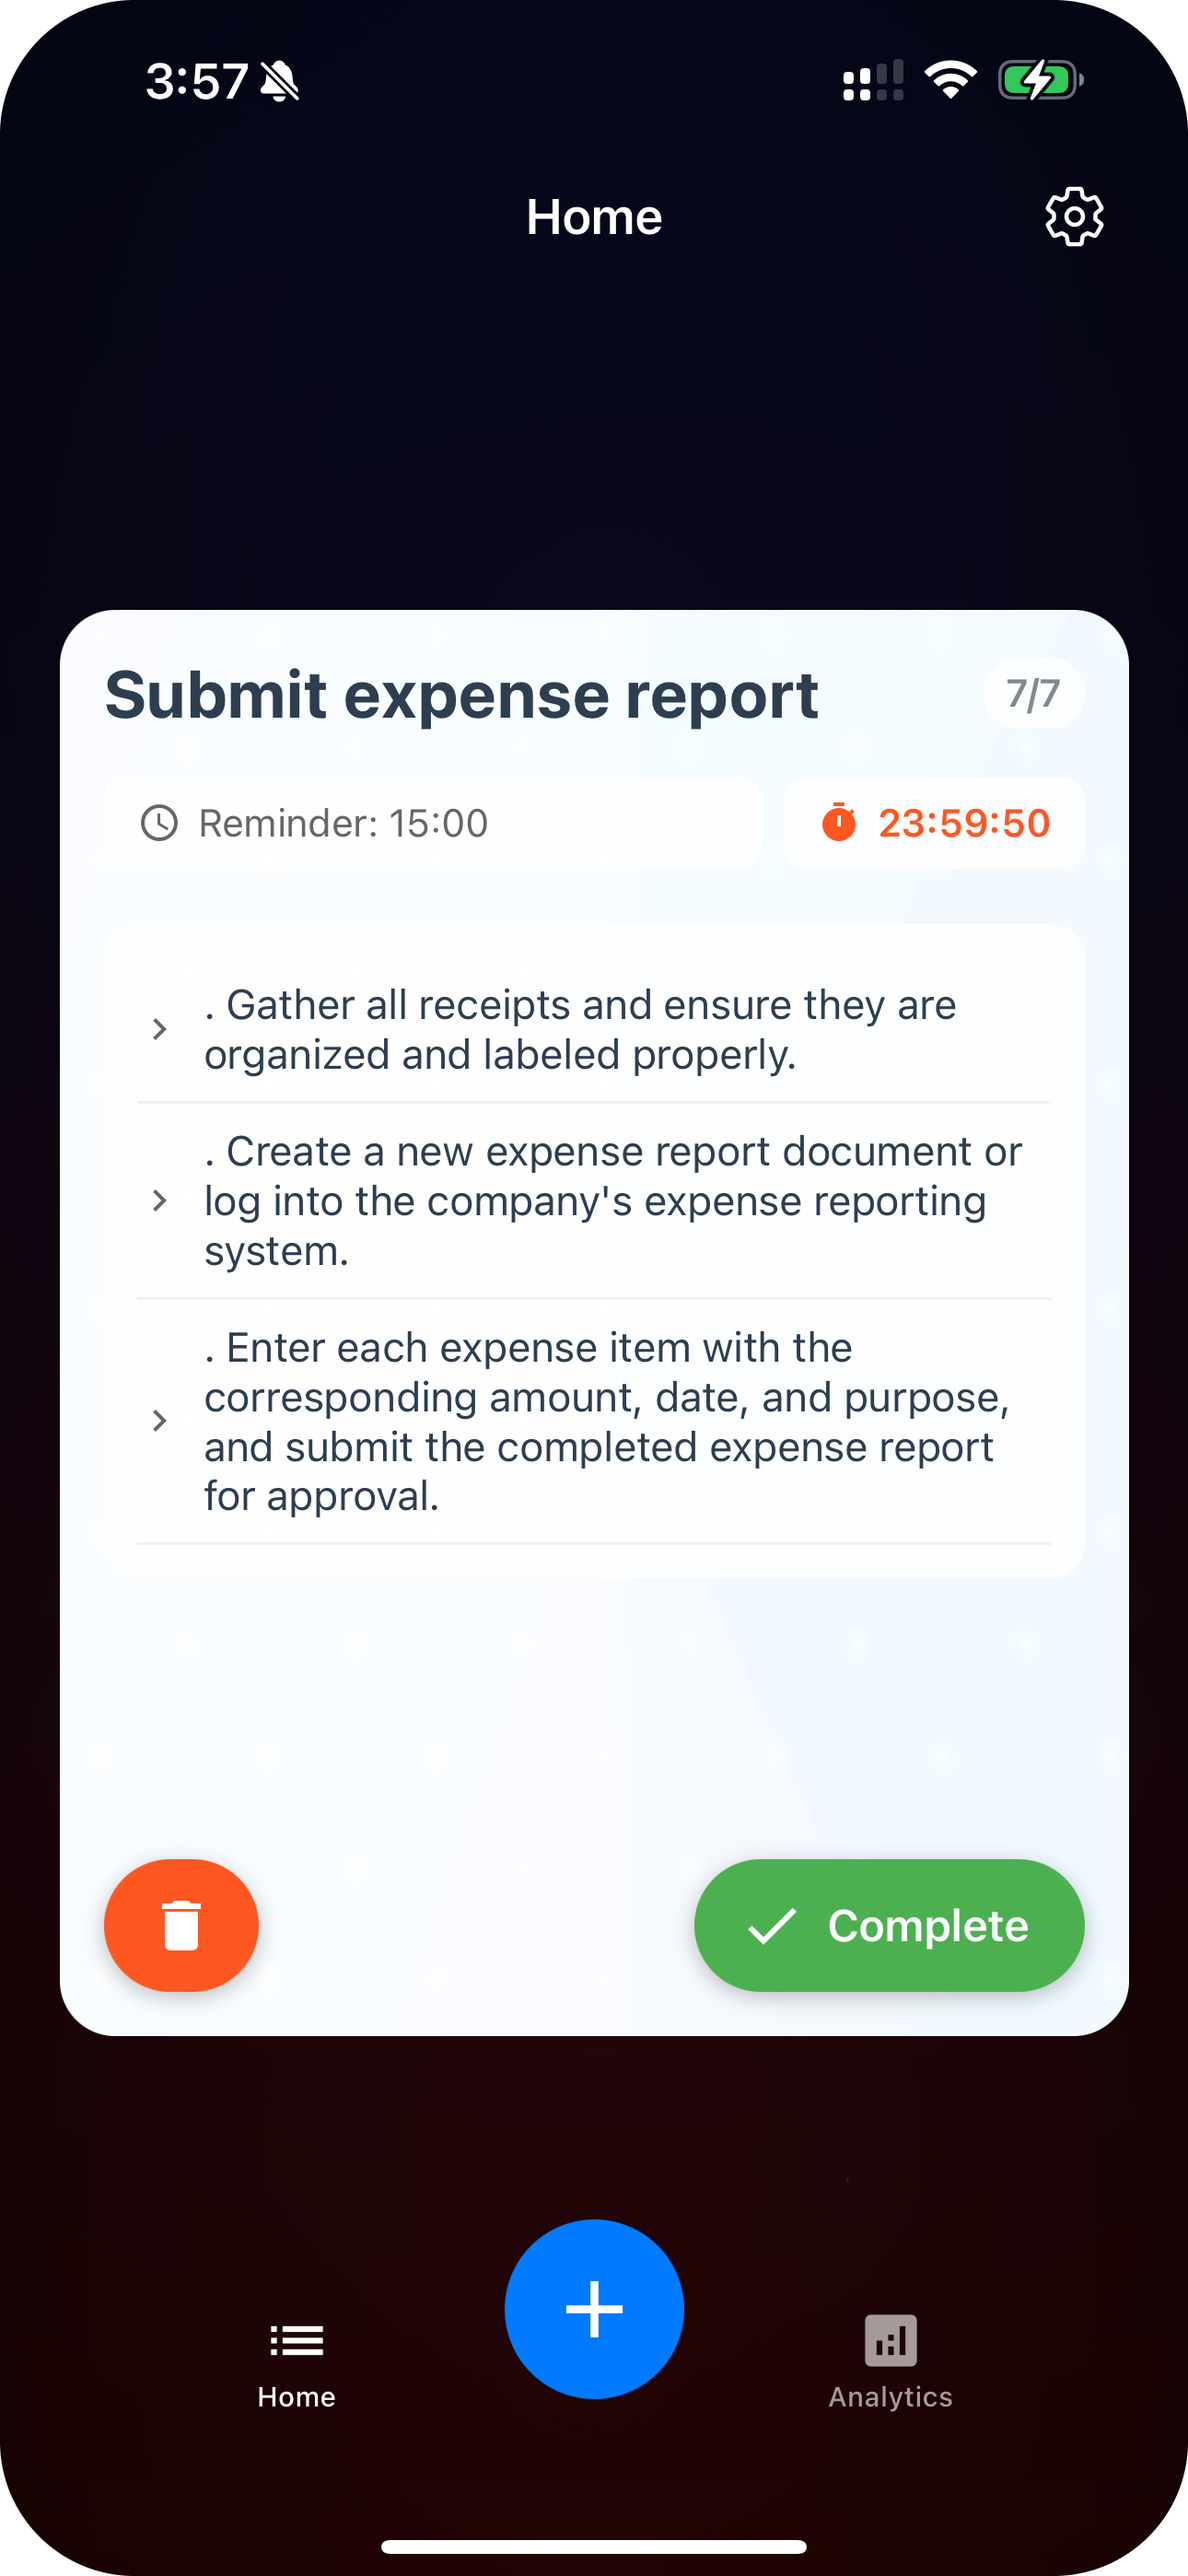
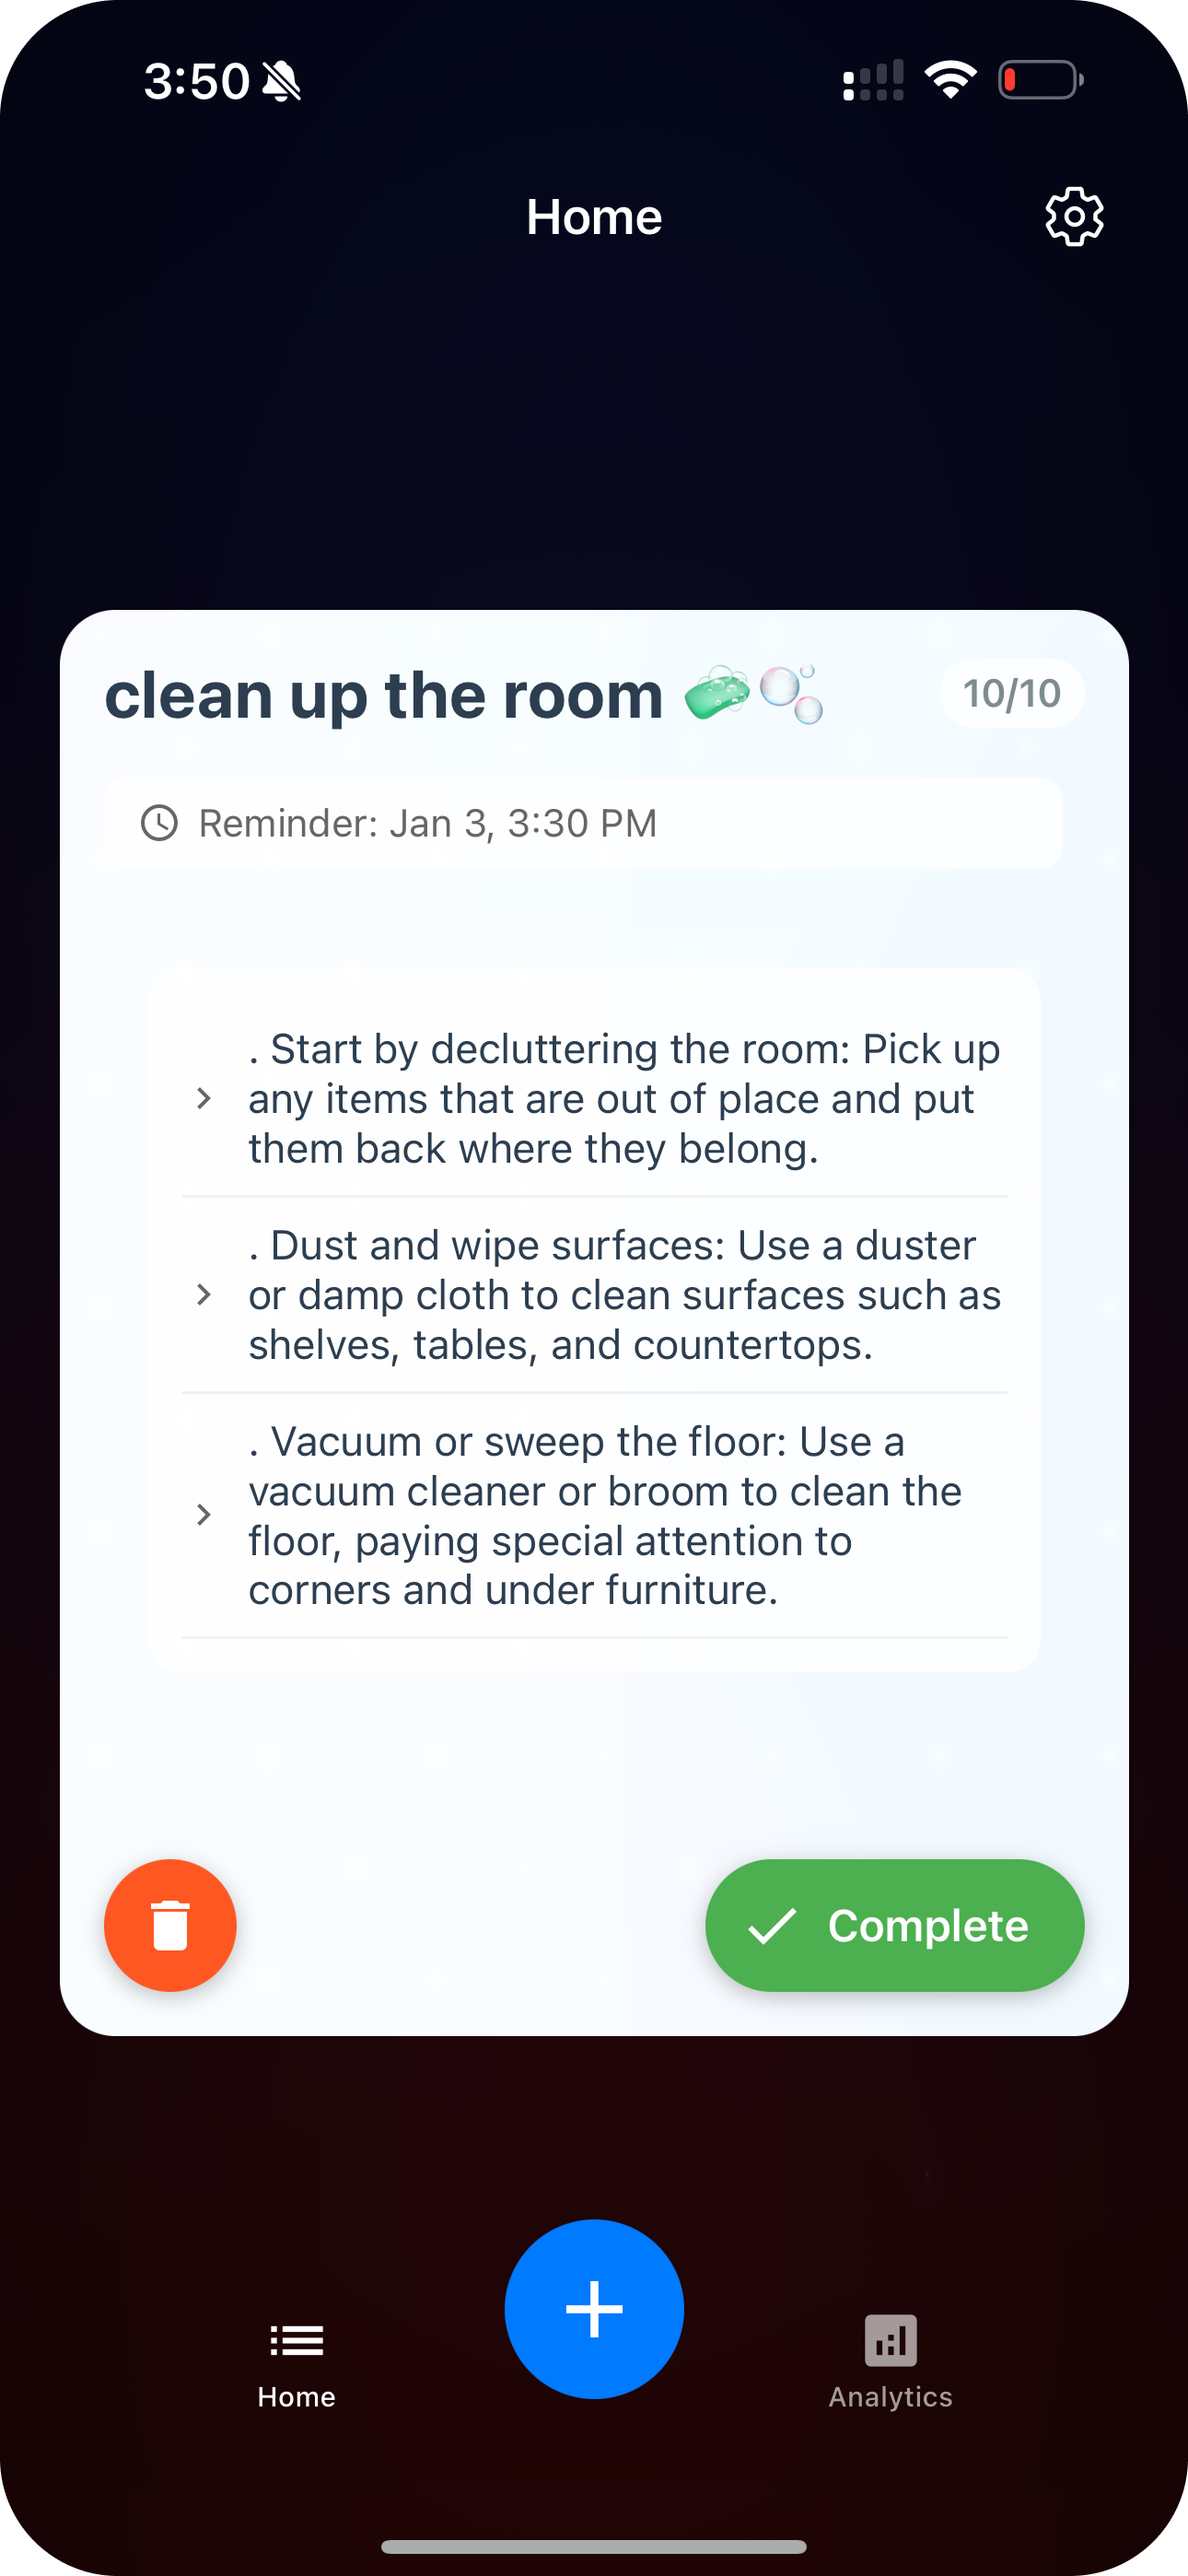
fixed messaging

diff --git a/app/api/testflight-invite/route.ts b/app/api/testflight-invite/route.ts
@@ -1,41 +1,182 @@
 import { NextResponse } from 'next/server'
-import { prisma } from '../../../lib/prisma'
+import jwt from 'jsonwebtoken'
 
-export async function POST(request: Request) {
+export async function POST(req: Request) {
   try {
-    const body = await request.json()
+    const { email } = await req.json()
     
-    // Handle testflight invite
-    if ('email' in body && Object.keys(body).length === 1) {
-      try {
-        await prisma.waitlistEmail.create({
-          data: { email: body.email }
-        })
+    // Get environment variables
+    const privateKey = process.env.APP_STORE_CONNECT_PRIVATE_KEY!.replace(/\\n/g, '\n')
+    const keyId = process.env.APP_STORE_CONNECT_KEY_ID!
+    const issuerId = process.env.APP_STORE_CONNECT_ISSUER_ID!
+    const appId = "6739987388"
+    const betaGroupId = "a0305cd6-078b-4fd1-92c7-d411e182d283"
 
-        return NextResponse.json({ 
-          success: true,
-          message: "You've been added to the waitlist! We'll send you an invite once the app is approved."
+    // Generate token
+    const token = jwt.sign({
+      iss: issuerId,
+      exp: Math.floor(Date.now() / 1000) + 1200,
+      aud: 'appstoreconnect-v1'
+    }, privateKey, {
+      algorithm: 'ES256',
+      header: {
+        alg: 'ES256',
+        kid: keyId,
+        typ: 'JWT'
+      }
+    })
+
+    // First check if tester already exists
+    const checkTesterResponse = await fetch(
+      `https://api.appstoreconnect.apple.com/v1/betaTesters?filter[email]=${encodeURIComponent(email)}`, {
+      headers: {
+        'Authorization': `Bearer ${token}`,
+        'Content-Type': 'application/json'
+      }
+    })
+
+    const checkTesterData = await checkTesterResponse.json()
+    console.log('Check Tester Response:', checkTesterData)
+
+    let betaTesterId
+    let isExistingTester = false
+
+    if (checkTesterData.data && checkTesterData.data.length > 0) {
+      // Tester exists
+      isExistingTester = true
+      betaTesterId = checkTesterData.data[0].id
+      console.log('Using existing tester ID:', betaTesterId)
+
+      // Add tester to beta group if not already in it
+      const addToGroupResponse = await fetch(
+        `https://api.appstoreconnect.apple.com/v1/betaGroups/${betaGroupId}/relationships/betaTesters`, {
+        method: 'POST',
+        headers: {
+          'Authorization': `Bearer ${token}`,
+          'Content-Type': 'application/json'
+        },
+        body: JSON.stringify({
+          data: [{
+            type: 'betaTesters',
+            id: betaTesterId
+          }]
         })
-      } catch (error) {
-        if (error instanceof Error && 'code' in error && error.code === 'P2002') {
-          return NextResponse.json({ 
-            success: true,
-            message: "You're already on the waitlist! We'll send you an invite once the app is approved."
-          })
+      })
+
+      console.log('Add to Group Response:', await addToGroupResponse.text())
+    } else {
+      // Create new beta tester
+      const createBetaTesterResponse = await fetch(
+        'https://api.appstoreconnect.apple.com/v1/betaTesters', {
+        method: 'POST',
+        headers: {
+          'Authorization': `Bearer ${token}`,
+          'Content-Type': 'application/json'
+        },
+        body: JSON.stringify({
+          data: {
+            type: 'betaTesters',
+            attributes: {
+              email: email,
+              firstName: 'Beta',
+              lastName: 'Tester'
+            },
+            relationships: {
+              betaGroups: {
+                data: [{
+                  id: betaGroupId,
+                  type: 'betaGroups'
+                }]
+              }
+            }
+          }
+        })
+      })
+
+      const testerData = await createBetaTesterResponse.json()
+      console.log('Beta Tester Creation Response:', testerData)
+
+      if (!createBetaTesterResponse.ok) {
+        throw new Error(`Failed to create beta tester: ${JSON.stringify(testerData)}`)
+      }
+
+      betaTesterId = testerData.data.id
+    }
+
+    // Try to send invitation
+    let alreadyAccepted = false
+    try {
+      const sendInviteResponse = await fetch(
+        'https://api.appstoreconnect.apple.com/v1/betaTesterInvitations', {
+        method: 'POST',
+        headers: {
+          'Authorization': `Bearer ${token}`,
+          'Content-Type': 'application/json'
+        },
+        body: JSON.stringify({
+          data: {
+            type: 'betaTesterInvitations',
+            relationships: {
+              app: {
+                data: {
+                  id: appId,
+                  type: 'apps'
+                }
+              },
+              betaTester: {
+                data: {
+                  id: betaTesterId,
+                  type: 'betaTesters'
+                }
+              }
+            }
+          }
+        })
+      })
+
+      const inviteData = await sendInviteResponse.json()
+      console.log('Invite Response:', inviteData)
+
+      if (!sendInviteResponse.ok) {
+        if (inviteData.errors?.[0]?.code?.includes('ALREADY_ACCEPTED')) {
+          alreadyAccepted = true
+        } else {
+          throw new Error(`Failed to send invite: ${JSON.stringify(inviteData)}`)
         }
-        throw error
+      }
+    } catch (inviteError) {
+      console.log('Invite error:', inviteError)
+      if (!alreadyAccepted) {
+        throw inviteError
       }
     }
-    
-    return NextResponse.json({ 
-      success: false,
-      message: "Invalid request"
-    }, { status: 400 })
+
+    // Return appropriate message based on user status
+    if (alreadyAccepted) {
+      return NextResponse.json({ 
+        success: true,
+        message: 'You already have access to TestFlight. Please check your TestFlight app to download the beta.',
+        status: 'already_accepted'
+      })
+    } else if (isExistingTester) {
+      return NextResponse.json({ 
+        success: true,
+        message: 'A new TestFlight invitation has been sent to your email. Please check your inbox (including spam folder).',
+        status: 'reinvited'
+      })
+    } else {
+      return NextResponse.json({ 
+        success: true,
+        message: 'Welcome! Please check your email for a TestFlight invitation (including spam folder).',
+        status: 'new_invite'
+      })
+    }
 
   } catch (error) {
-    return NextResponse.json({ 
-      success: false,
-      message: "An error occurred"
-    }, { status: 500 })
+    console.error('Full Error Details:', error)
+    return NextResponse.json(
+      { error: error instanceof Error ? error.message : 'Unknown error' },
+      { status: 500 }
+    )
   }
 } 

diff --git a/app/page.tsx b/app/page.tsx
@@ -138,28 +138,28 @@ function NotificationCarousel() {
   const [activeIndex, setActiveIndex] = useState(0)
   const [notifications, setNotifications] = useState([
     {
-      title: "🚨 Expense Report Alert",
-      message: "Hey slacker, that expense report won't file itself! Due in 3 hours",
+      title: "Dotomo",
+      message: "🏰 Your room looks like a war zone. Time to restore order to this chaos! ⚔",
       time: "57m ago"
     },
     {
-      title: "ATTENTION MARINE! 🪖",
-      message: "YOUR MISSION: SECURE THOSE RECEIPTS AND SUBMIT REPORT! FAILURE IS NOT AN OPTION!",
+      title: "Dotomo", 
+      message: "⚠ ATTENTION: Those clothes on the floor are staging a rebellion. Crush it now! 👕",
       time: "57m ago"
     },
     {
-      title: "Friendly Reminder ✨",
-      message: "That expense report is looking at you like a disappointed parent",
+      title: "Dotomo",
+      message: "😱 Your mom would have a heart attack if she saw this mess. Clean it up! 🧹",
       time: "57m ago"
     },
     {
-      title: "AI Assistant Notice",
-      message: "Based on my calculations, you're procrastinating again. Just saying.",
+      title: "Dotomo",
+      message: "🚨 Warning: Dust bunnies under your bed have formed their own civilization 🐰",
       time: "57m ago"
     },
     {
-      title: "URGENT: Financial Command",
-      message: "Drop and give me 20 receipts, soldier! Report deadline approaching!",
+      title: "Dotomo",
+      message: "🌪 This isn't organized chaos, it's just chaos. Time for Operation Clean Room! ✨",
       time: "57m ago"
     }
   ])
@@ -295,7 +295,7 @@ function FloatingNotification({ status, onClose }: {
                 </p>
                 <p className="text-white/80 text-[14px] leading-snug line-clamp-2">
                   {status === 'success' 
-                    ? "You've been added to the waitlist! We'll send you an invite once the app is approved."
+                    ? "You'll receive a TestFlight invite email shortly. Check your inbox!"
                     : "Something went wrong. Please try again."}
                 </p>
               </div>
@@ -537,11 +537,11 @@ export default function Home() {
       
       setEmail('')
       setSubmitStatus('success')
-      setShowNotification(true) // Show success notification
+      setShowNotification(true)
     } catch (error) {
       console.error('Error:', error)
       setSubmitStatus('error')
-      setShowNotification(true) // Show error notification
+      setShowNotification(true)
     } finally {
       setIsSubmitting(false)
     }
